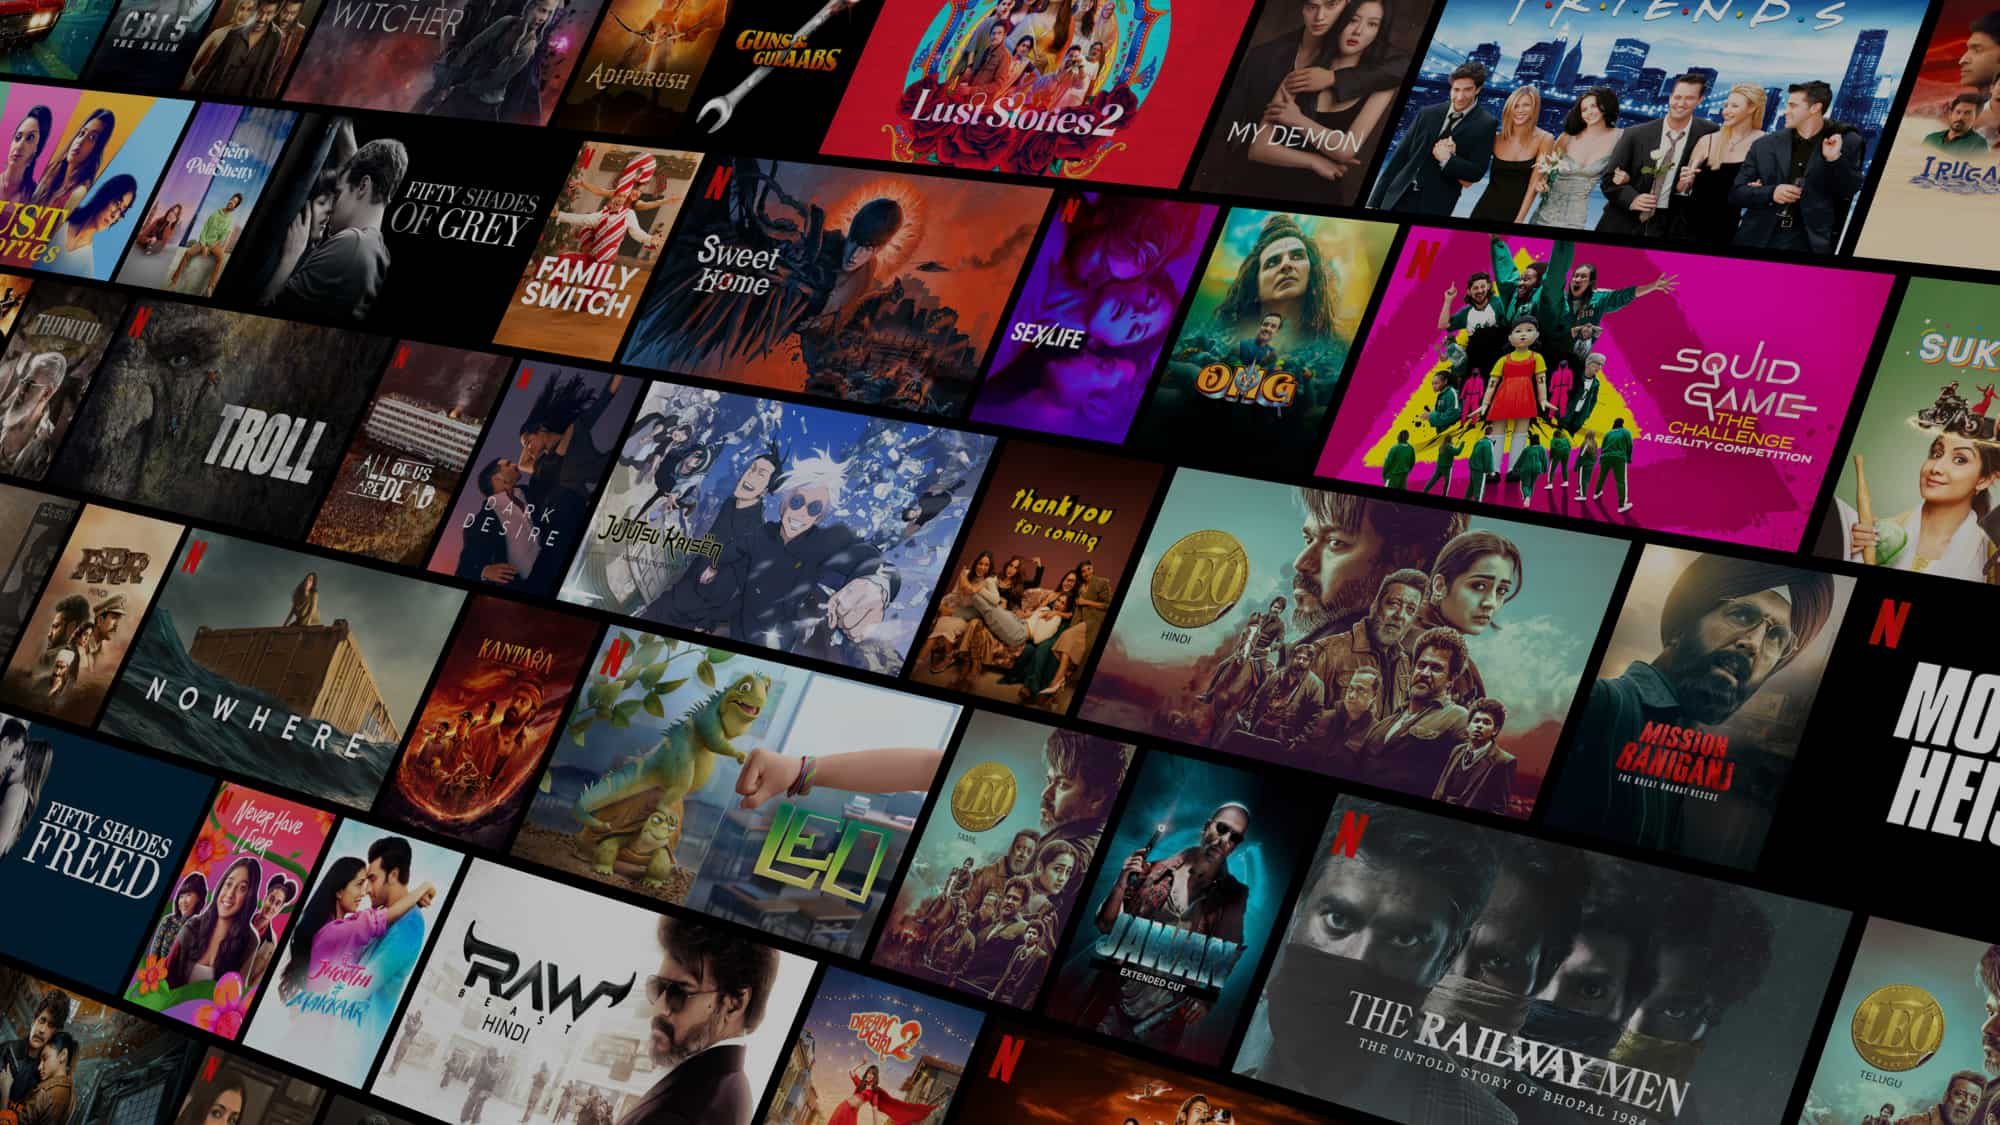
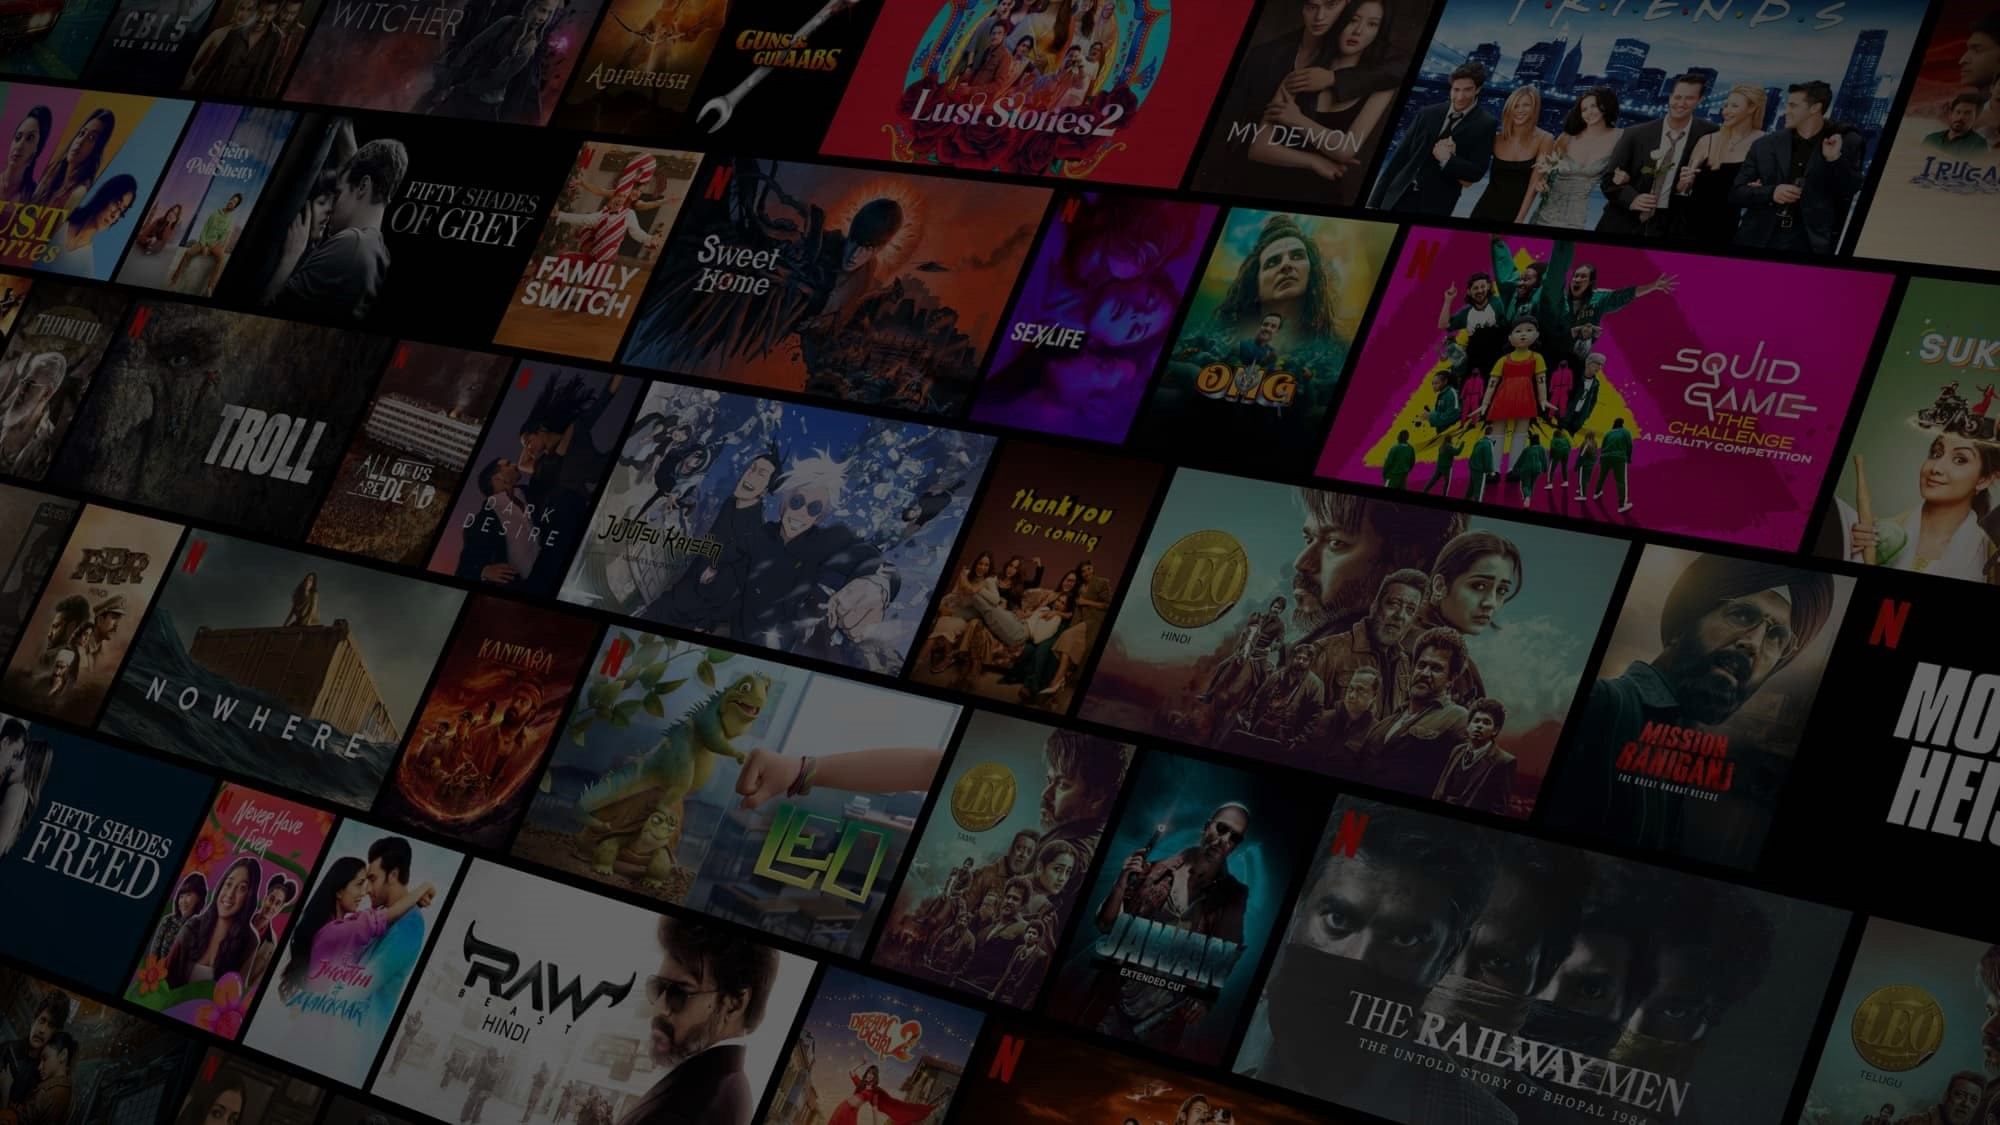
Day 3 changes are made to hero

diff --git a/index.html b/index.html
@@ -1,23 +1,44 @@
 <!DOCTYPE html>
 <html lang="en">
-<head>
-    <meta charset="UTF-8">
-    <meta name="viewport" content="width=device-width, initial-scale=1.0">
-    <link rel="stylesheet" href="styles.css">
+  <head>
+    <meta charset="UTF-8" />
+    <meta name="viewport" content="width=device-width, initial-scale=1.0" />
+    <link rel="stylesheet" href="styles.css" />
     <title>Document</title>
-</head>
-<body>
+  </head>
+  <body>
     <div class="main">
-        <div class="box">
-            <nav>
-                <span class="logo"><h1 style="font-weight: bolder; font-family: Arial, Helvetica, sans-serif;">LALI FLIX</h1></span>
-                <div class="buttons">
-                    <button class="english">English</button>
-                    <button class="signin">Sign In</button>
-                </div>
-            </nav>
-            <div class="head"><h1>Enjoy big movies, hit series and more from ₹149.</h1></div>
+      <div class="box">
+        <nav>
+          <span class="logo"
+            ><h1
+              style="
+                font-weight: bolder;
+                font-family: Arial, Helvetica, sans-serif;
+              "
+            >
+              LALI FLIX
+            </h1></span
+          >
+          <div class="buttons">
+            <button class="english">English</button>
+            <button class="signin">Sign In</button>
+          </div>
+        </nav>
+        <div class="hero">
+          <span><center>Enjoy big movies, hit series and more from ₹149.</center></span>
+          <span>Join today. Cancel anytime.</span>
+          <span>Ready to watch? Enter your email to create or restart your membership.</span>
+          <div class="email">
+            <input type="text" placeholder="Email Adress">
+            <button>Get started</button>
+          </div>
         </div>
+        <div class="seperation"></div>
+      </div>
     </div>
-</body>
-</html>
+
+
+
+  </body>
+</html> 

diff --git a/styles.css b/styles.css
@@ -1,21 +1,20 @@
-* {
+
+ 
+
+*{
   margin: 0;
   padding: 0;
 }
 
 .main {
   background-image: url("/assets/images/bgimage.jpg");
-  height: 80vh;
+  height: 105vh;
   background-size: cover;
   position: relative;
 }
 
-.main .box {
+body{
   background-color: black;
-  height: 80vh;
-  width: 100%;
-  position: absolute;
-  opacity: 0.46;
 }
 
 nav {
@@ -39,9 +38,14 @@ nav {
 .english,
 .signin {
   margin-left: 10px; 
+  border: none;
+  border-radius: 20px;
+  font-family: Impact, Haettenschweiler, 'Arial Narrow Bold', sans-serif;
 }
 .signin {
   background-color: red;
+  border: none;
+  border-radius: 10px;
 }
 
 button {
@@ -54,4 +58,56 @@ button {
     font-size: x-large;
     font-weight: bolder;
     position: absolute;
+    color: aliceblue;
+    align-items: center;
 }
+
+.subhead{
+  color: aliceblue;
+  font-size: large;
+}
+
+.hero{
+ font-family: 'Martel Sans', sans-serif;
+  height: 100%;
+  display: flex;
+  align-items: center;
+  justify-content: center;
+  flex-direction: column;
+  position: relative;
+  color: aliceblue;
+  gap: 23px;
+}
+
+.hero> :nth-child(1){
+  font-family: 'Martel Sans', sans-serif;
+  font-weight: 900;
+  font-size: 48px;
+  text-align: center;
+}
+
+.hero> :nth-child(2){
+  font-family: 'Martel Sans', sans-serif;
+    font-weight: 400;
+  font-size: 20px;
+  text-align: center;
+}
+
+.hero> :nth-child(3){
+  font-family: 'Martel Sans', sans-serif;
+  font-weight: 400;
+  font-size: 20px;
+  text-align: center;
+}
+
+.email{
+  color: black;
+  fill: none;
+}
+
+.seperation{
+  color: grey;
+  height: 11px;
+}
+
+@import url('https://fonts.googleapis.com/css2?family=Martel+Sans:wght@800&display=swap')
